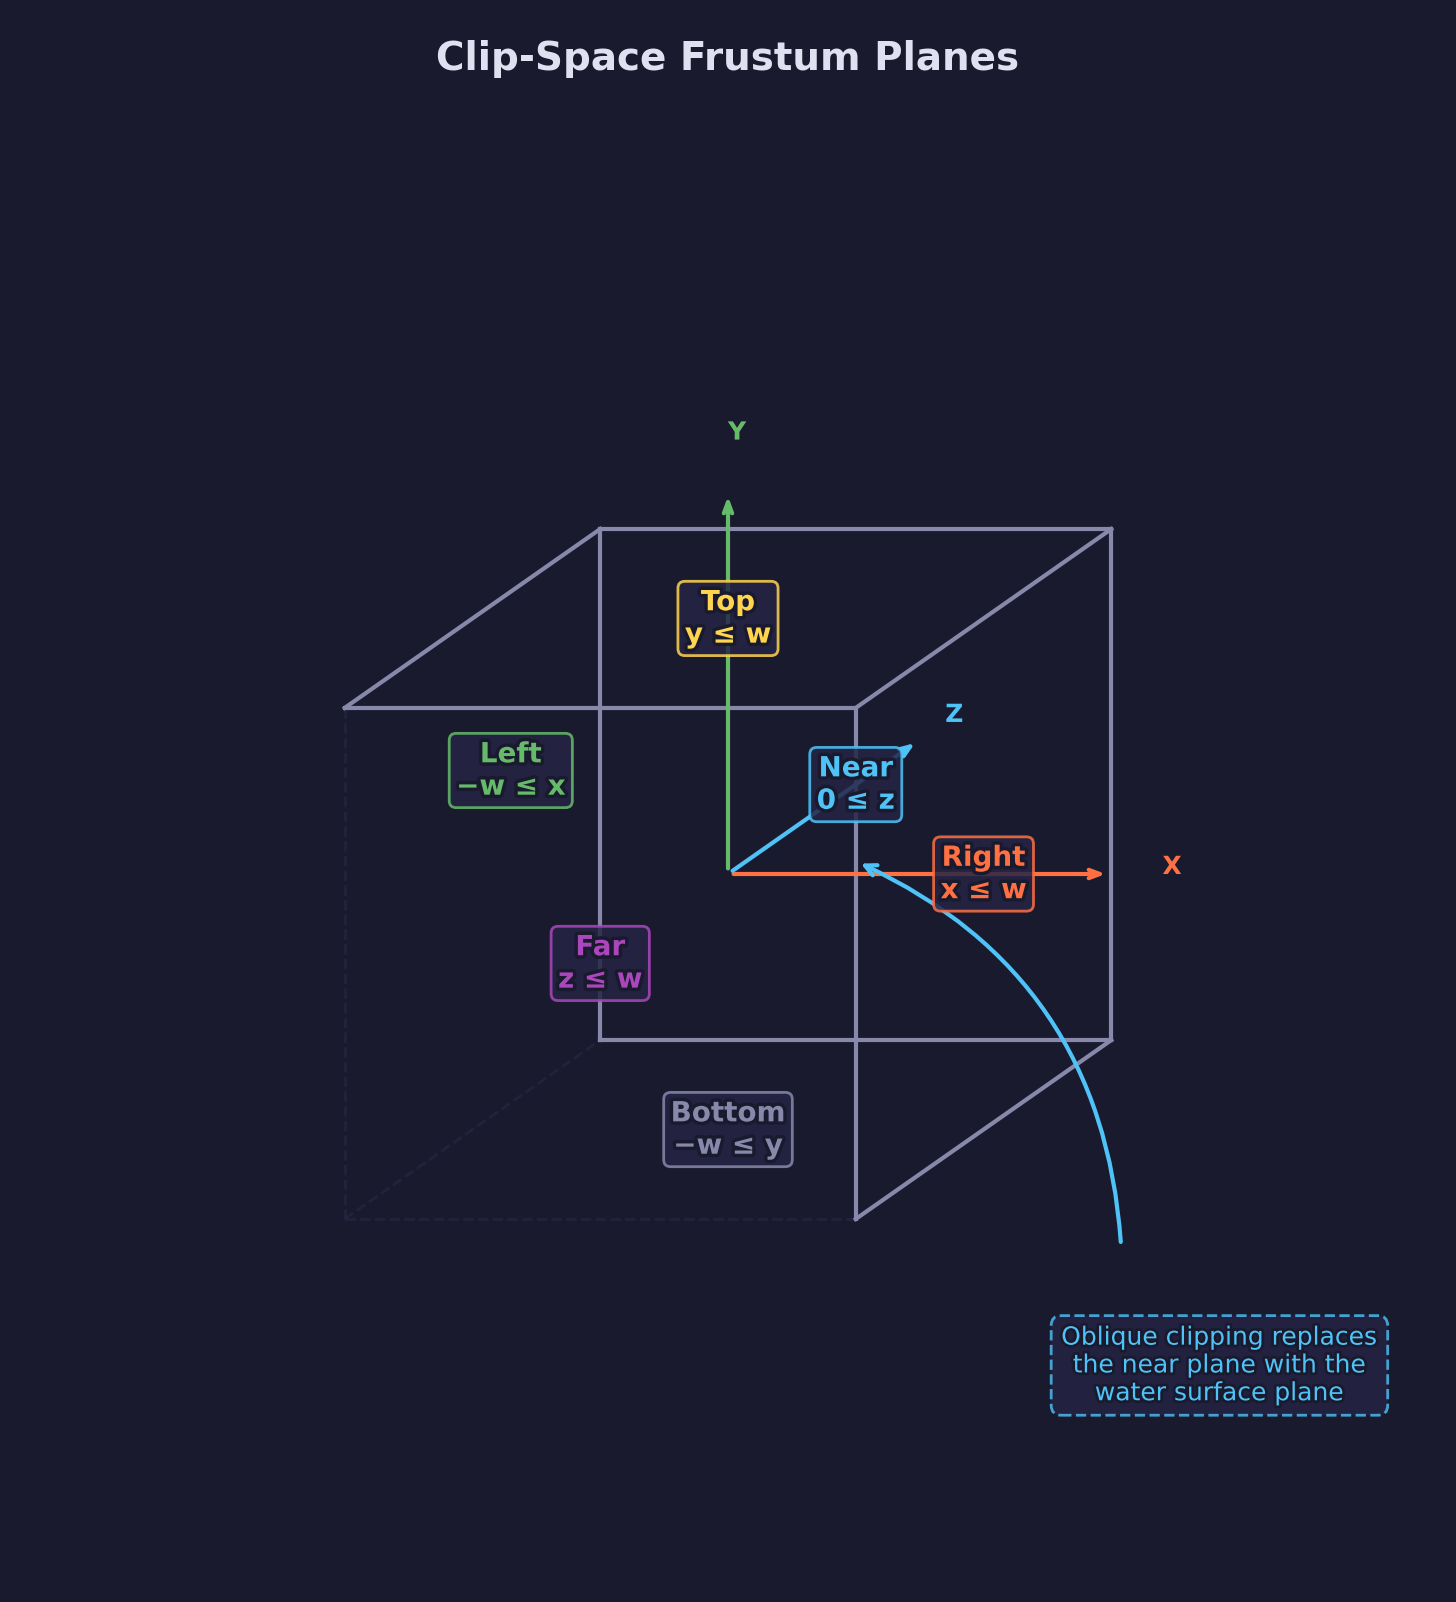
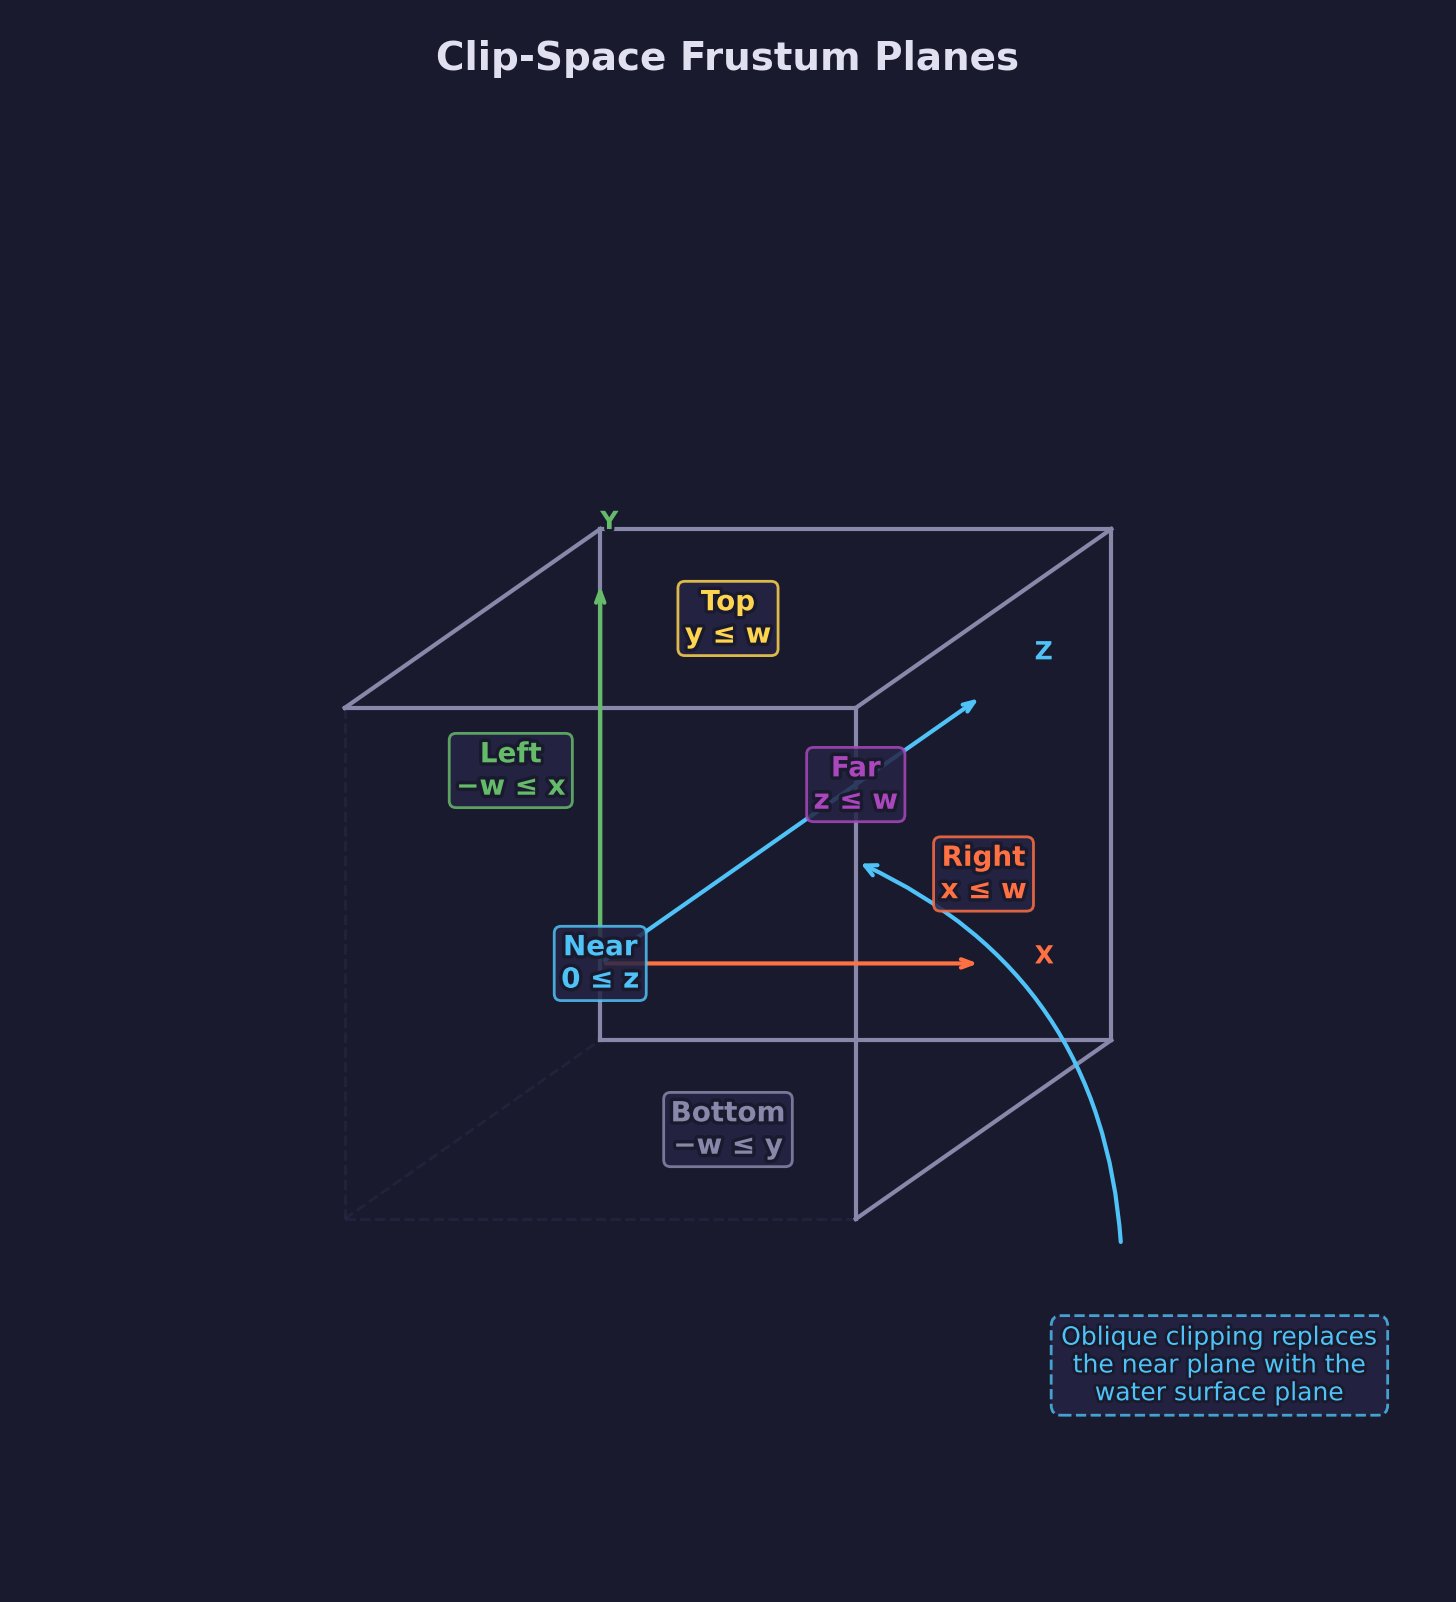
Address PR feedback round 4: frustum z-range, reflection wording, HDR validation
- Fix frustum diagram: use Vulkan/D3D z=[0,1] convention (was [-1,1])
- Fix README: reflection view uses reflection matrix, not inverted pitch
- Validate HDR dimensions before aspect-ratio division
- Disable grid/ticks on underwater camera guard diagram
- Deduplicate CMake asset copy commands with foreach loop
- Regenerate affected diagrams

diff --git a/scripts/forge_diagrams/gpu_diagrams.py b/scripts/forge_diagrams/gpu_diagrams.py
@@ -12016,25 +12016,28 @@ def diagram_frustum_plane_extraction():
     ax.set_aspect("equal")
     ax.axis("off")
 
-    # Simple isometric projection of a cube
-    # Cube vertices in 3D: (x, y, z) with range [-1, 1]
-    # Simple iso: screen_x = x + z*0.5, screen_y = y + z*0.35
+    # Simple isometric projection of a frustum volume.
+    # Vulkan/D3D convention: x,y in [-1, 1], z in [0, 1].
+    # The iso mapping remaps z from [0,1] to [-1,1] for visual centering.
+    # Simple iso: screen_x = x + z'*0.5, screen_y = y + z'*0.35
     iso_x_fact = 0.5
     iso_y_fact = 0.35
     s = 1.3  # scale factor
 
     def iso(x, y, z):
-        sx = (x + z * iso_x_fact) * s + 1.0
-        sy = (y + z * iso_y_fact) * s + 1.0
+        # Remap z from [0,1] to [-1,1] for centered isometric layout
+        z_centered = z * 2.0 - 1.0
+        sx = (x + z_centered * iso_x_fact) * s + 1.0
+        sy = (y + z_centered * iso_y_fact) * s + 1.0
         return (sx, sy)
 
-    # Back face (z=-1)
-    b0 = iso(-1, -1, -1)
-    b1 = iso(1, -1, -1)
-    b2 = iso(1, 1, -1)
-    b3 = iso(-1, 1, -1)
+    # Near face (z=0)
+    b0 = iso(-1, -1, 0)
+    b1 = iso(1, -1, 0)
+    b2 = iso(1, 1, 0)
+    b3 = iso(-1, 1, 0)
 
-    # Front face (z=1)
+    # Far face (z=1)
     f0 = iso(-1, -1, 1)
     f1 = iso(1, -1, 1)
     f2 = iso(1, 1, 1)
@@ -12076,12 +12079,12 @@ def diagram_frustum_plane_extraction():
 
     # Face labels with clip-space inequalities
     planes = [
-        ("Near", iso(0, 0, 1), STYLE["accent1"], "0 \u2264 z"),
-        ("Far", iso(0, 0, -1), STYLE["accent4"], "z \u2264 w"),
-        ("Right", iso(1, 0, 0), STYLE["accent2"], "x \u2264 w"),
-        ("Left", iso(-1, 0.3, 0.3), STYLE["accent3"], "\u2212w \u2264 x"),
-        ("Top", iso(0, 1, 0), STYLE["warn"], "y \u2264 w"),
-        ("Bottom", iso(0, -1, 0), STYLE["text_dim"], "\u2212w \u2264 y"),
+        ("Near", iso(0, 0, 0), STYLE["accent1"], "0 \u2264 z"),
+        ("Far", iso(0, 0, 1), STYLE["accent4"], "z \u2264 w"),
+        ("Right", iso(1, 0, 0.5), STYLE["accent2"], "x \u2264 w"),
+        ("Left", iso(-1, 0.3, 0.65), STYLE["accent3"], "\u2212w \u2264 x"),
+        ("Top", iso(0, 1, 0.5), STYLE["warn"], "y \u2264 w"),
+        ("Bottom", iso(0, -1, 0.5), STYLE["text_dim"], "\u2212w \u2264 y"),
     ]
 
     for name, pos, color, ineq in planes:
@@ -12369,6 +12372,9 @@ def diagram_underwater_camera_guard():
     ax = fig.add_subplot(111)
     setup_axes(ax, xlim=(-0.5, 13.5), ylim=(-4.5, 5.5))
     ax.set_aspect("equal")
+    ax.set_xticks([])
+    ax.set_yticks([])
+    ax.grid(False)
 
     stroke = [pe.withStroke(linewidth=3, foreground=STYLE["bg"])]
     stroke_thin = [pe.withStroke(linewidth=2, foreground=STYLE["bg"])]

diff --git a/scripts/equirect_to_cubemap.py b/scripts/equirect_to_cubemap.py
@@ -322,6 +322,15 @@ def main():
             return 1
         # Load once and reuse for both validation and conversion.
         preloaded_hdr = iio.imread(args.input).astype(np.float32)
+        if preloaded_hdr.ndim < 2:
+            print(
+                f"Unsupported HDR image rank: {preloaded_hdr.ndim}",
+                file=sys.stderr,
+            )
+            return 1
+        if preloaded_hdr.shape[0] == 0 or preloaded_hdr.shape[1] == 0:
+            print("HDR image has invalid dimensions", file=sys.stderr)
+            return 1
         ratio = preloaded_hdr.shape[1] / preloaded_hdr.shape[0]
         dims_str = f"{preloaded_hdr.shape[1]}x{preloaded_hdr.shape[0]}"
     else:

diff --git a/lessons/gpu/30-planar-reflections/README.md b/lessons/gpu/30-planar-reflections/README.md
@@ -221,7 +221,8 @@ The reflection pass renders the scene from the mirrored camera into an
 offscreen color texture. Key details:
 
 - The camera position is reflected across the water plane
-- The view matrix uses the reflected position and inverted pitch
+- The reflected view is built by applying the reflection matrix to the
+  camera's view transform
 - The projection matrix uses oblique near-plane clipping
 - Front-face winding is reversed (the mirror flip changes triangle winding),
   so reflected pipelines use `FRONTFACE_CLOCKWISE` to compensate
